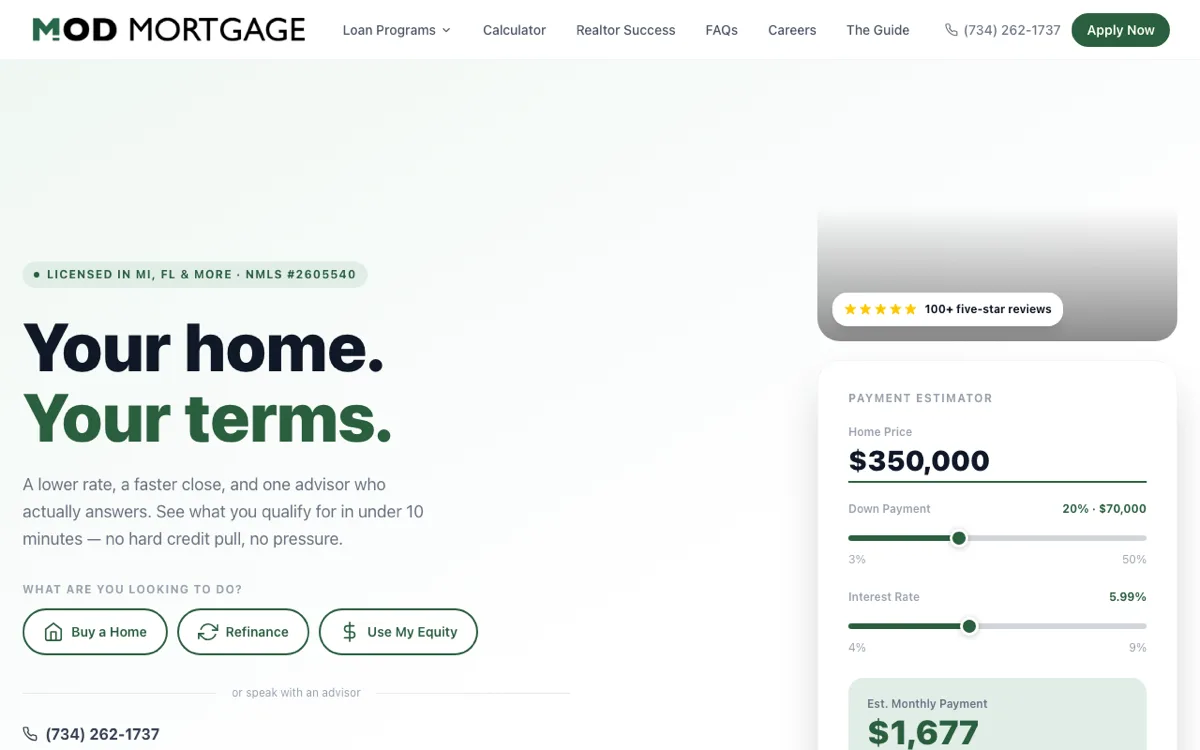
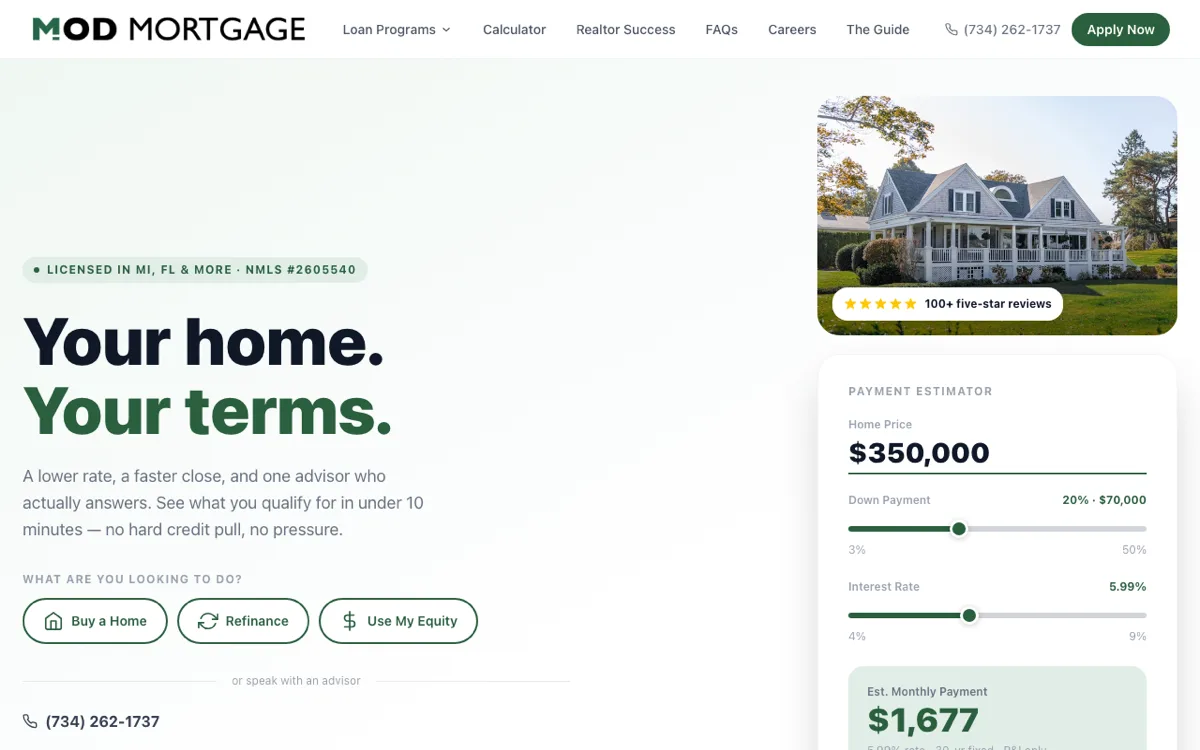
Portfolio: better Mod Mortgage thumbnail with hero photo loaded

diff --git a/portfolio/index.html b/portfolio/index.html
@@ -161,7 +161,7 @@
         <!-- ── REAL CLIENT: Mod Mortgage ── -->
         <div class="portfolio-item-lg reveal delay-2" data-category="live">
           <div class="portfolio-thumb" style="background:#0a0a12">
-            <img loading="lazy" class="portfolio-thumb-img" src="/images/portfolio/mortgage.webp?v=2" alt="Mod Mortgage Loans website screenshot" />
+            <img loading="lazy" class="portfolio-thumb-img" src="/images/portfolio/mortgage.webp?v=3" alt="Mod Mortgage Loans website screenshot" />
           </div>
           <div class="portfolio-info">
             <div class="live-badge">Live Client</div>
